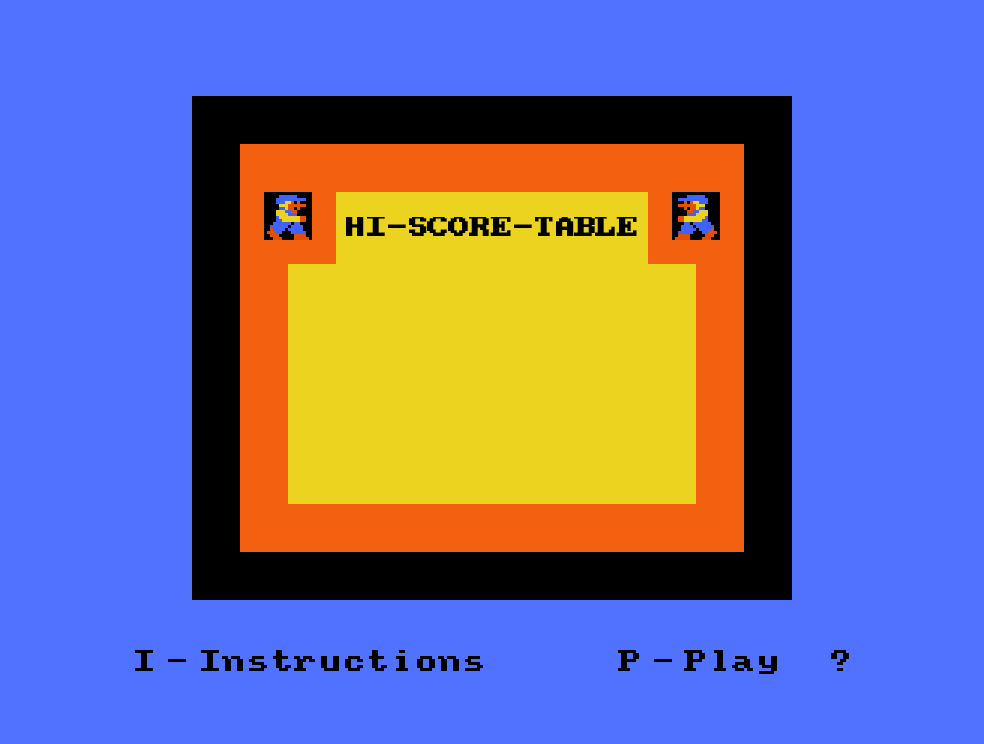
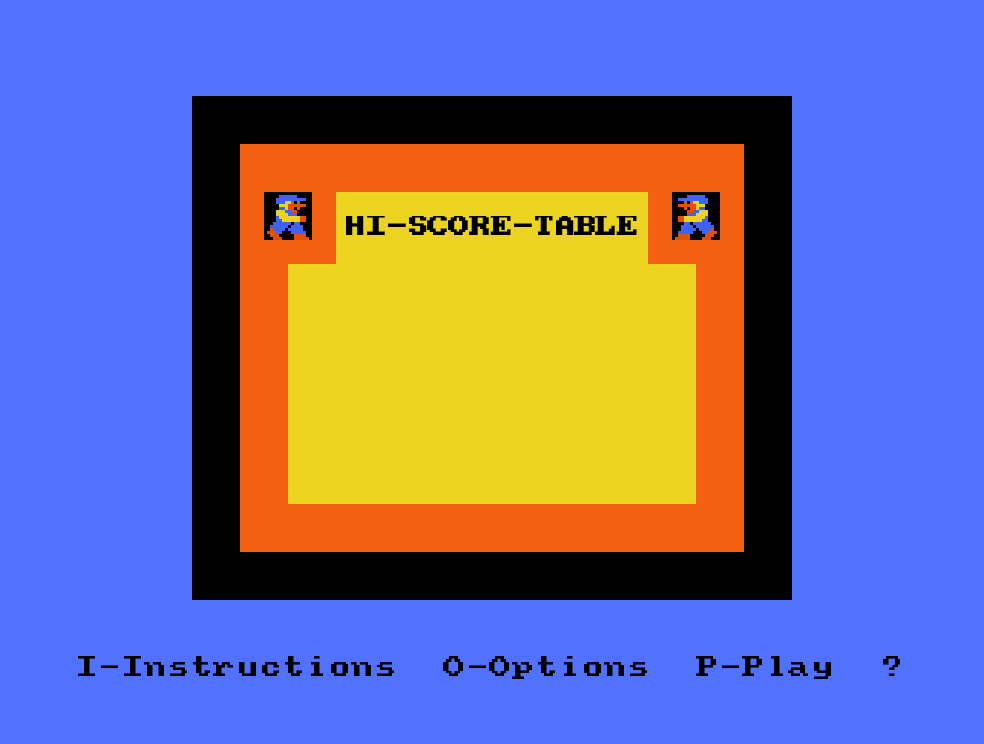
Options screen

Changed region(s): [[0.122, 0.8656, 0.9146, 0.9274], [0.3963, 0.2782, 0.6402, 0.3091], [0.061, 0.8656, 0.0915, 0.9274]]

diff --git a/core/src/org/rmc/screen/OptionsScreen.java b/core/src/org/rmc/screen/OptionsScreen.java
@@ -1,0 +1,90 @@
+package org.rmc.screen;
+
+import org.rmc.MainGame;
+import org.rmc.framework.base.BaseActor;
+import org.rmc.framework.base.BaseGame;
+import org.rmc.framework.base.BaseScreen;
+import com.badlogic.gdx.Input.Keys;
+import com.badlogic.gdx.graphics.Color;
+import com.badlogic.gdx.scenes.scene2d.ui.Label;
+
+public class OptionsScreen extends BaseScreen {
+
+    private static final int MUSIC = 1;
+    private static final int SOUNDS = 2;
+    private static final int END = 3;
+
+    private int optionNumber;
+    private String answer;
+
+    private Label titleLabel;
+    private Label musicLabel;
+    private Label soundsLabel;
+    private Label footerLabel;
+
+    @Override
+    public void initialize() {
+        new BaseActor(0, 0, this.mainStage);
+
+        this.optionNumber = MUSIC;
+        this.answer = null;
+
+        Color color = Color.valueOf(MainGame.TITLE_COLOR);
+        this.titleLabel = new Label("OH MUMMY AGAIN - OPTIONS", BaseGame.labelStyle);
+        this.titleLabel.setColor(color);
+        this.footerLabel = new Label("Press \"C\" or Fire Button to Continue", BaseGame.labelStyle);
+        this.footerLabel.setColor(color);
+        this.footerLabel.setVisible(false);
+
+        color = Color.valueOf(MainGame.LEVEL_COLOR);
+        this.musicLabel = new Label("BACKGROUND MUSIC (Y-N) ?", BaseGame.labelStyle);
+        this.musicLabel.setColor(color);
+        this.soundsLabel = new Label("SOUND EFFECTS (Y-N) ?", BaseGame.labelStyle);
+        this.soundsLabel.setColor(color);
+        this.soundsLabel.setVisible(false);
+
+        this.uiTable.pad(10);
+        this.uiTable.add(this.titleLabel).center().expandY();
+        this.uiTable.row();
+        this.uiTable.add(this.musicLabel).center().expandY();
+        this.uiTable.row();
+        this.uiTable.add(this.soundsLabel).center().expandY();
+        this.uiTable.row();
+        this.uiTable.add(this.footerLabel).center().expandY();
+    }
+
+    @Override
+    public void update(float delta) {
+        if (this.optionNumber == MUSIC && this.answer != null) {
+            this.musicLabel.setText("BACKGROUND MUSIC (Y-N) ?  " + this.answer);
+            if (this.answer.equals("Yes"))
+                MainGame.setMusicOn(true);
+            else
+                MainGame.setMusicOn(false);
+            this.answer = null;
+            this.soundsLabel.setVisible(true);
+            this.optionNumber++;
+        } else if (this.optionNumber == SOUNDS && this.answer != null) {
+            this.soundsLabel.setText("SOUND EFFECTS (Y-N)  ?  " + this.answer);
+            if (this.answer.equals("Yes"))
+                MainGame.setSoundsOn(true);
+            else
+                MainGame.setSoundsOn(false);
+            this.answer = null;
+            this.footerLabel.setVisible(true);
+            this.optionNumber++;
+        }
+    }
+
+    @Override
+    public boolean keyDown(int keycode) {
+        if (keycode == Keys.Y)
+            this.answer = "Yes";
+        else if (keycode == Keys.N)
+            this.answer = "No";
+        else if (keycode == Keys.C && this.optionNumber == END)
+            BaseGame.setActiveScreen(new ScoreScreen());
+        return false;
+    }
+
+}

diff --git a/core/src/org/rmc/screen/LevelScreen.java b/core/src/org/rmc/screen/LevelScreen.java
@@ -384,7 +384,8 @@ public class LevelScreen extends BaseScreen {
                     this.scroll = false;
                 } else {
                     if (this.lives > 0) {
-                        this.dieSound.play();
+                        if (MainGame.getSoundsOn())
+                            this.dieSound.play();
                         this.lives--;
                         this.livesTable.removeActorAt(this.lives, false);
                     }
@@ -400,7 +401,8 @@ public class LevelScreen extends BaseScreen {
         }
 
         if (this.player.overlaps(this.goal, 0.8f) && this.key && this.royal) {
-            this.levelSound.play();
+            if (MainGame.getSoundsOn())
+                this.levelSound.play();
             this.levelPassed = true;
             this.player.setVisible(false);
             this.player.setPosition(-10000, -10000);
@@ -462,14 +464,17 @@ public class LevelScreen extends BaseScreen {
 
     private void checkForBlockValue(Block block) {
         if (block instanceof BlockTreasure) {
-            this.coinSound.play();
+            if (MainGame.getSoundsOn())
+                this.coinSound.play();
             this.score += 5;
             this.scoreLabel.setText(MainGame.getScoreString(this.score));
         } else if (block instanceof BlockKey) {
-            this.keySound.play();
+            if (MainGame.getSoundsOn())
+                this.keySound.play();
             this.key = true;
         } else if (block instanceof BlockRoyal) {
-            this.keySound.play();
+            if (MainGame.getSoundsOn())
+                this.keySound.play();
             this.score += 50;
             this.scoreLabel.setText(MainGame.getScoreString(this.score));
             this.royal = true;

diff --git a/core/src/org/rmc/MainGame.java b/core/src/org/rmc/MainGame.java
@@ -37,10 +37,14 @@ public class MainGame extends BaseGame {
 
     public static boolean winGame = false;
 
+    private static boolean soundsOn = true;
+
+    private static Music music;
+
     @Override
     public void create() {
         super.create();
-        Music music = Gdx.audio.newMusic(Gdx.files.internal("sounds/music.mp3"));
+        music = Gdx.audio.newMusic(Gdx.files.internal("sounds/music.mp3"));
         music.setLooping(true);
         music.play();
         BaseGame.setActiveScreen(new MenuScreen());
@@ -132,6 +136,21 @@ public class MainGame extends BaseGame {
 
     public static int getMinScore() {
         return scores[scores.length - 1];
+    }
+
+    public static void setMusicOn(boolean musicOn) {
+        if (musicOn)
+            music.setVolume(1);
+        else
+            music.setVolume(0);
+    }
+
+    public static boolean getSoundsOn() {
+        return soundsOn;
+    }
+
+    public static void setSoundsOn(boolean sounds) {
+        soundsOn = sounds;
     }
 
 }

diff --git a/core/src/org/rmc/screen/ScoreScreen.java b/core/src/org/rmc/screen/ScoreScreen.java
@@ -115,6 +115,8 @@ public class ScoreScreen extends BaseScreen {
     public boolean keyDown(int keycode) {
         if (keycode == Keys.P)
             BaseGame.setActiveScreen(new LevelScreen());
+        else if (keycode == Keys.O)
+            BaseGame.setActiveScreen(new OptionsScreen());
         else if (keycode == Keys.I)
             BaseGame.setActiveScreen(new InstructionsScreen());
         return false;
